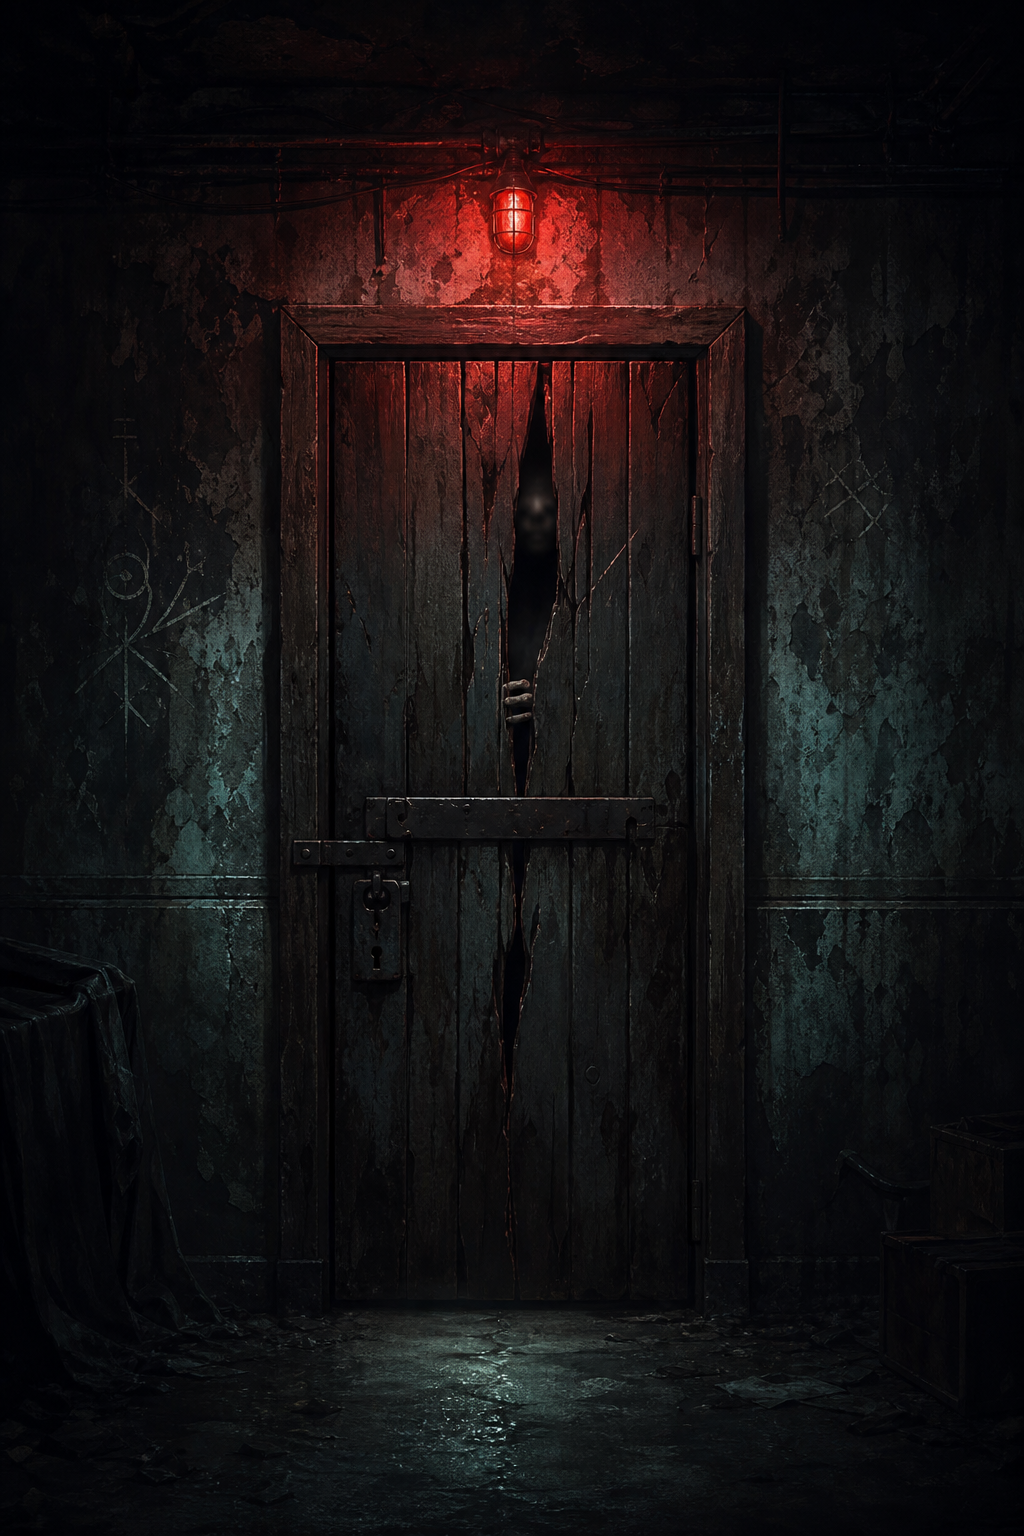
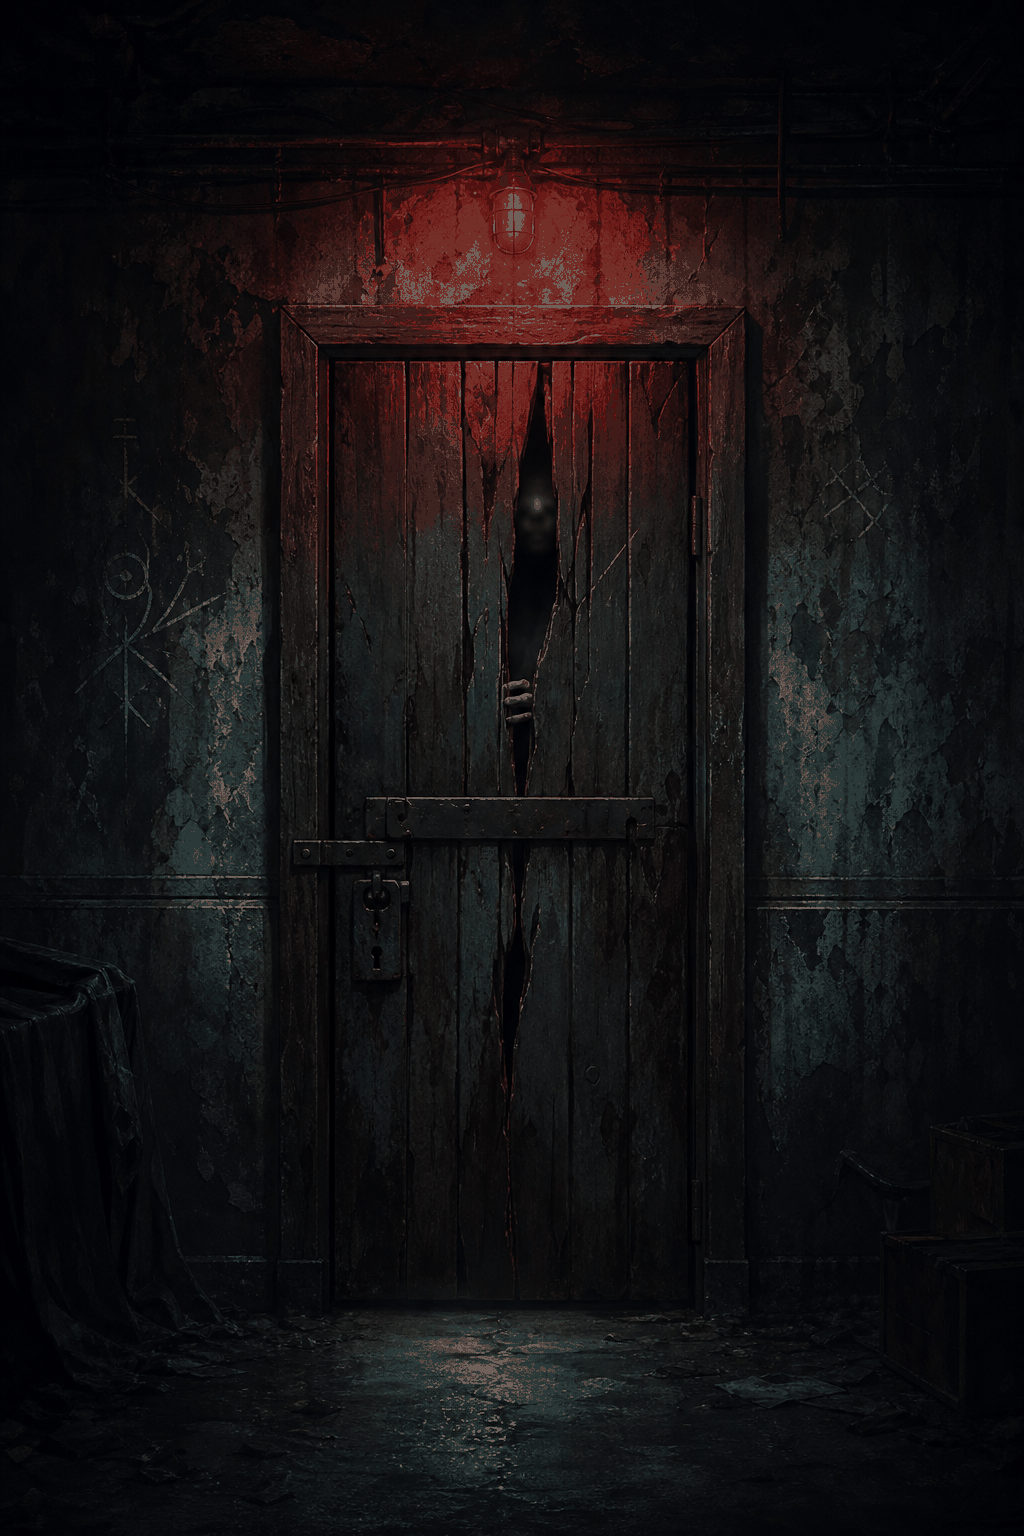
v0.5.2: efeitos sonoros, versão no menu, log agrupado e porta comprimida
- Cria os 5 efeitos sonoros que davam 404 (knock, hit, buy, whisper, panic)
- Menu mostra a versão real do jogo em vez de 'Protótipo 0.2'
- Agrupa linhas repetidas do log de combate (x7)
- Comprime basement-door.png de 2,3 MB para 0,9 MB

Claude-Session: https://claude.ai/code/session_01Tjkhy13p1SvQKt5AWQMKqu

diff --git a/src/game.js b/src/game.js
@@ -1,7 +1,7 @@
 const SAVE_KEY = "batidas-no-porao-save-v2";
 const SETTINGS_KEY = "batidas-no-porao-settings-v1";
 const MANUAL_SAVE_PREFIX = "batidas-no-porao-manual-slot-";
-const GAME_VERSION = "0.5.1";
+const GAME_VERSION = "0.5.2";
 const FINAL_ROOM = 1000;
 const MERCHANT_INTERVAL = 15;
 const PRESTIGE_MIN_ROOM = 50;
@@ -1167,6 +1167,13 @@ function logLine(type, text) {
   const minutes = Math.floor(performance.now() / 60000);
   const seconds = Math.floor((performance.now() / 1000) % 60);
   const time = `${String(minutes).padStart(2, "0")}:${String(seconds).padStart(2, "0")}`;
+  // Agrupa linhas idênticas e consecutivas ("Você causou 2 dano. x5") para o log não ficar poluído.
+  const last = state.log[0];
+  if (last && last.type === type && last.text === text) {
+    last.count = (last.count || 1) + 1;
+    last.time = time;
+    return;
+  }
   state.log.unshift({ type, text, time });
   state.log = state.log.slice(0, 90);
 }
@@ -1566,7 +1573,8 @@ function closeEvent() {
 function renderI18n() {
   document.documentElement.lang = state.lang === "pt" ? "pt-BR" : state.lang;
   document.querySelectorAll("[data-i18n]").forEach((node) => {
-    node.textContent = t(node.dataset.i18n);
+    const key = node.dataset.i18n;
+    node.textContent = key === "prototype" ? `${t(key)} ${GAME_VERSION}` : t(key);
   });
   document.title = t("gameTitle");
 }
@@ -1713,7 +1721,7 @@ function renderCombatMods() {
 
 function renderCombatLog() {
   const signature = `${state.lang}|${state.log
-    .map((line) => `${line.time}:${line.type}:${line.text}`)
+    .map((line) => `${line.time}:${line.type}:${line.text}:${line.count || 1}`)
     .join("|")}`;
   if (signature === lastCombatLogSignature) return;
   lastCombatLogSignature = signature;
@@ -1723,7 +1731,7 @@ function renderCombatLog() {
     return;
   }
   el.combatLog.replaceChildren(
-    ...state.log.slice(0, 42).map((line) => createLogItem(line.type, line.text, line.time)),
+    ...state.log.slice(0, 42).map((line) => createLogItem(line.type, line.text, line.time, line.count)),
   );
 }
 
@@ -1919,14 +1927,14 @@ function loadManualSlot(slot) {
   render();
 }
 
-function createLogItem(type, text, time) {
+function createLogItem(type, text, time, count = 1) {
   const item = document.createElement("li");
   const timeSpan = document.createElement("span");
   const textSpan = document.createElement("span");
   timeSpan.className = "time";
   textSpan.className = type;
   timeSpan.textContent = `(${time}) `;
-  textSpan.textContent = text;
+  textSpan.textContent = count > 1 ? `${text} x${count}` : text;
   item.append(timeSpan, textSpan);
   return item;
 }

diff --git a/index.html b/index.html
@@ -16,7 +16,7 @@
       crossorigin
     />
     <link rel="preload" href="assets/basement-door.png" as="image" />
-    <link rel="stylesheet" href="styles.css?v=0.5.1" />
+    <link rel="stylesheet" href="styles.css?v=0.5.2" />
   </head>
   <body>
     <div class="crt-noise" aria-hidden="true"></div>
@@ -24,7 +24,7 @@
 
     <section class="main-menu is-open" id="mainMenu" aria-live="polite" aria-hidden="false">
       <div class="menu-panel menu-screen is-active" id="menuHome">
-        <p class="eyebrow" data-i18n="prototype">Protótipo 0.2</p>
+        <p class="eyebrow" data-i18n="prototype">Protótipo</p>
         <h1 data-i18n="gameTitle">Batidas no Porão</h1>
         <p class="menu-tagline" data-i18n="menuTagline">
           Uma porta aprende seu nome batida por batida.
@@ -115,7 +115,7 @@
       </div>
       <div class="menu-build">
         <span>by Teuzin0Dev</span>
-        <strong id="menuVersion">v0.5.1</strong>
+        <strong id="menuVersion">v0.5.2</strong>
       </div>
     </section>
 
@@ -167,7 +167,7 @@
       <section class="center-stage">
         <header class="top-hud">
           <div>
-            <p class="eyebrow" data-i18n="prototype">Protótipo 0.2</p>
+            <p class="eyebrow" data-i18n="prototype">Protótipo</p>
             <h1 data-i18n="gameTitle">Batidas no Porão</h1>
           </div>
           <div class="hud-controls">
@@ -473,7 +473,7 @@
               <dt data-i18n="gameDesign">Design e programação</dt>
               <dd>Teuz + Codex</dd>
               <dt data-i18n="version">Versão</dt>
-              <dd>Protótipo 0.2</dd>
+              <dd>Protótipo</dd>
             </dl>
           </section>
 
@@ -512,8 +512,8 @@
       <span id="panicText">NÃO ABRA</span>
     </div>
 
-    <script src="src/locales-fallback.js?v=0.5.1" defer></script>
-    <script src="src/game.js?v=0.5.1" defer></script>
+    <script src="src/locales-fallback.js?v=0.5.2" defer></script>
+    <script src="src/game.js?v=0.5.2" defer></script>
   </body>
 </html>
 <script defer src="https://static.itch.io/htmlgame.js" type="text/javascript"></script>

diff --git a/src/locales-fallback.js b/src/locales-fallback.js
@@ -2,7 +2,7 @@ window.LOCALE_FALLBACK = {
   "pt": {
     "combatMode": "-- Em tensão --",
     "combatModeFight": "-- Em combate --",
-    "prototype": "Protótipo 0.2",
+    "prototype": "Protótipo",
     "gameTitle": "Batidas no Porão",
     "language": "Idioma",
     "nextRoom": "Entrar na próxima sala",
@@ -258,7 +258,7 @@ window.LOCALE_FALLBACK = {
   "en": {
     "combatMode": "-- Tension --",
     "combatModeFight": "-- Combat --",
-    "prototype": "Prototype 0.2",
+    "prototype": "Prototype",
     "gameTitle": "Knocks Below",
     "language": "Language",
     "nextRoom": "Enter next room",
@@ -514,7 +514,7 @@ window.LOCALE_FALLBACK = {
   "es": {
     "combatMode": "-- En tensión --",
     "combatModeFight": "-- En combate --",
-    "prototype": "Prototipo 0.2",
+    "prototype": "Prototipo",
     "gameTitle": "Golpes en el Sótano",
     "language": "Idioma",
     "nextRoom": "Entrar en la próxima sala",

diff --git a/README.md b/README.md
@@ -5,7 +5,7 @@ Jogue grátis em https://teuzin0dev.itch.io/batidas-no-porao
 
 ## Origem deste repositório
 O projeto original não estava mais disponível. Este código foi recuperado da build
-publicada no itch.io (v0.5.1). Os arquivos são os mesmos que o navegador carrega,
+publicada no itch.io (v0.5.1) e evoluído em seguida. Os arquivos são os mesmos que o navegador carrega,
 sem minificação.
 
 ## Rodando localmente
@@ -21,8 +21,10 @@ Abra http://localhost:8000
 - `assets/`: fonte, sprites e música
 
 ## Pendências conhecidas
-- Os efeitos sonoros `assets/audio/sfx/*.mp3` não existem na build publicada;
-  o jogo usa sons sintetizados no lugar.
+- Os efeitos sonoros em `assets/audio/sfx/` são sintéticos (gerados por script)
+  e podem ser trocados por gravações melhores com o mesmo nome de arquivo.
+- Teste de redesenho dos sprites com Meshy (rato): ficou escuro e destoou do estilo
+  chapado atual, então os sprites originais foram mantidos.
 - Confirmar a licença do pack `assets/sprites/packs/horror-fantasy-assets.png`
   antes de tornar o repositório público.
 
